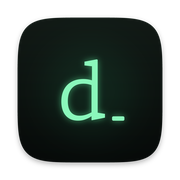
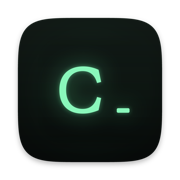
site: Code, at yask.dev/code
The page, icons and install commands carry the new name. /dojo redirects to
/code, and /code/install serves the installer for the one-line command.

diff --git a/site/code/index.html b/site/code/index.html
@@ -3,16 +3,16 @@
 <head>
 <meta charset="utf-8">
 <meta name="viewport" content="width=device-width, initial-scale=1, viewport-fit=cover">
-<title>Dojo — your IDE is bloated</title>
+<title>Code — your IDE is bloated</title>
 <meta name="description" content="Neovim with a real Mac GUI and actual taste. The Cmd shortcuts you know, a neon-on-black screen, zero Electron. Sorry, VS Code.">
 <meta name="theme-color" content="#07090a">
 <meta name="color-scheme" content="dark">
-<link rel="canonical" href="https://yask.dev/dojo">
-<meta property="og:title" content="Dojo — your IDE is bloated">
+<link rel="canonical" href="https://yask.dev/code">
+<meta property="og:title" content="Code — your IDE is bloated">
 <meta property="og:description" content="Neovim with a real Mac GUI and actual taste. The Cmd shortcuts you know, a neon-on-black screen, zero Electron. Sorry, VS Code.">
-<meta property="og:image" content="https://yask.dev/dojo/screenshot.png">
-<link rel="icon" href="/dojo/favicon.png">
-<link rel="apple-touch-icon" href="/dojo/apple-touch-icon.png">
+<meta property="og:image" content="https://yask.dev/code/screenshot.png">
+<link rel="icon" href="/code/favicon.png">
+<link rel="apple-touch-icon" href="/code/apple-touch-icon.png">
 <link rel="preconnect" href="https://fonts.googleapis.com">
 <link rel="preconnect" href="https://fonts.gstatic.com" crossorigin>
 <link href="https://fonts.googleapis.com/css2?family=Geist:wght@300..700&family=Geist+Mono:wght@400;500&display=swap" rel="stylesheet">
@@ -259,7 +259,7 @@
 
 <nav>
   <div class="wrap">
-    <a class="brand" href="#top"><img src="/dojo/icon.png" alt="">Dojo</a>
+    <a class="brand" href="#top"><img src="/code/icon.png" alt="">Code</a>
     <div class="links">
       <a href="#features">Features</a>
       <a href="#keys">Shortcuts</a>
@@ -272,9 +272,9 @@
 <main id="top">
   <div class="wrap">
     <header class="hero">
-      <span class="eyebrow"><span class="dot"></span>v1.0 · macOS · built on Neovim</span>
+      <span class="eyebrow"><span class="dot"></span>v1.1 · macOS · built on Neovim</span>
       <h1>Your IDE is<br><em>bloated.</em></h1>
-      <p class="lede">Dojo is Neovim with a real Mac GUI and actual taste. The Cmd shortcuts you know, a neon‑on‑black screen, zero Electron. Sorry, VS Code.</p>
+      <p class="lede">Code is Neovim with a real Mac GUI and actual taste. The Cmd shortcuts you know, a neon‑on‑black screen, zero Electron. Sorry, VS Code.</p>
 
       <div class="install" id="install">
         <div class="seg" role="tablist" aria-label="Install method">
@@ -282,16 +282,16 @@
           <button role="tab" aria-selected="false" data-tab="curl">Terminal</button>
         </div>
         <div class="cmd">
-          <code id="cmd"><span class="p" aria-hidden="true">$</span><span id="cmd-text">brew install yask123/dojo/dojo</span></code>
+          <code id="cmd"><span class="p" aria-hidden="true">$</span><span id="cmd-text">brew install yask123/tap/code</span></code>
           <button class="copy" type="button" id="copy">Copy</button>
         </div>
-        <p class="note" id="note">Paste into Terminal, then open <b>Dojo</b> from Spotlight. Any existing Neovim setup is backed up first.</p>
+        <p class="note" id="note">Paste into Terminal, then open <b>Code</b> from Spotlight. Any existing Neovim setup is backed up first. Had Dojo, its old name? The same command upgrades it.</p>
       </div>
     </header>
 
-    <div class="stage rise" aria-label="Dojo editing a Python file">
+    <div class="stage rise" aria-label="Code editing a Python file">
       <div class="win">
-        <div class="bar"><i></i><i></i><i></i><span>ledger — Dojo</span></div>
+        <div class="bar"><i></i><i></i><i></i><span>ledger — Code</span></div>
         <div class="ed">
           <div class="tree" aria-hidden="true">
             <div><span class="ic">▾</span>ledger</div>
@@ -364,7 +364,7 @@
           <div class="theme-row">
             <div>
               <h3>Phosphor, and friends.</h3>
-              <p>Dojo's own theme: near‑black, mint text, one neon green. Or browse a handful of others with ⌘K ⌘T; the editor recolours as you move.</p>
+              <p>Code's own theme: near‑black, mint text, one neon green. Or browse a handful of others with ⌘K ⌘T; the editor recolours as you move.</p>
             </div>
             <div class="swatches" aria-hidden="true">
               <div class="sw on" style="background:#0b0f0d;--a:#5ef2a0;--b:#86e3cf;--c:#c5e59a"></div>
@@ -388,14 +388,14 @@
         <div class="sc"><span>Run this file</span><span class="ks"><kbd>⌘</kbd><kbd>R</kbd><code>Space r r</code></span></div>
         <div class="sc"><span>Every shortcut</span><span class="ks"><kbd>⌘</kbd><kbd>K</kbd><kbd>⌘</kbd><kbd>S</kbd><code>Space ?</code></span></div>
       </div>
-      <div class="real rise"><img src="/dojo/screenshot.png" alt="The real Dojo app editing a Python project, in the Phosphor theme" loading="lazy"></div>
+      <div class="real rise"><img src="/code/screenshot.png" alt="The real Code app editing a Python project, in the Phosphor theme" loading="lazy"></div>
     </section>
 
     <section class="end">
       <h2 class="rise">Make some room<br><span class="quiet">to think.</span></h2>
       <div class="install rise">
         <div class="cmd">
-          <code><span class="p" aria-hidden="true">$</span><span id="cmd-2">brew install yask123/dojo/dojo</span></code>
+          <code><span class="p" aria-hidden="true">$</span><span id="cmd-2">brew install yask123/tap/code</span></code>
           <button class="copy" type="button" data-copy="cmd-2">Copy</button>
         </div>
         <p class="note">No Homebrew? Use the <a href="#install" data-tab-link="curl" style="color:var(--neon)">Terminal installer</a>.</p>
@@ -407,15 +407,15 @@
 <footer>
   <div class="wrap">
     <span>Built on <a href="https://neovim.io">Neovim</a>, <a href="https://www.lazyvim.org">LazyVim</a> and <a href="https://neovide.dev">Neovide</a>. For macOS.</span>
-    <span><a href="https://github.com/yask123/nvim-macos">Source</a> · Update with <code>nvim-update</code> · Remove with <code>brew uninstall --cask dojo</code></span>
+    <span><a href="https://github.com/yask123/nvim-macos">Source</a> · Update with <code>nvim-update</code> · Remove with <code>brew uninstall --cask code</code></span>
   </div>
 </footer>
 
 <script>
   // Install tabs
   const commands = {
-    brew: { text: "brew install yask123/dojo/dojo", note: 'Paste into Terminal, then open <b>Dojo</b> from Spotlight. Any existing Neovim setup is backed up first.' },
-    curl: { text: 'bash -c "$(curl -fsSL https://raw.githubusercontent.com/yask123/nvim-macos/main/install.sh)"', note: 'Installs Homebrew too if you don\'t have it. Then open <b>Dojo</b> from Spotlight.' },
+    brew: { text: "brew install yask123/tap/code", note: 'Paste into Terminal, then open <b>Code</b> from Spotlight. Any existing Neovim setup is backed up first. Had Dojo, its old name? The same command upgrades it.' },
+    curl: { text: 'bash -c "$(curl -fsSL https://yask.dev/code/install)"', note: 'Checks your Mac, installs Homebrew too if you don\'t have it, and upgrades an old Dojo in place. Then open <b>Code</b> from Spotlight.' },
   };
   const tabs = document.querySelectorAll(".seg button");
   function select(name) {
